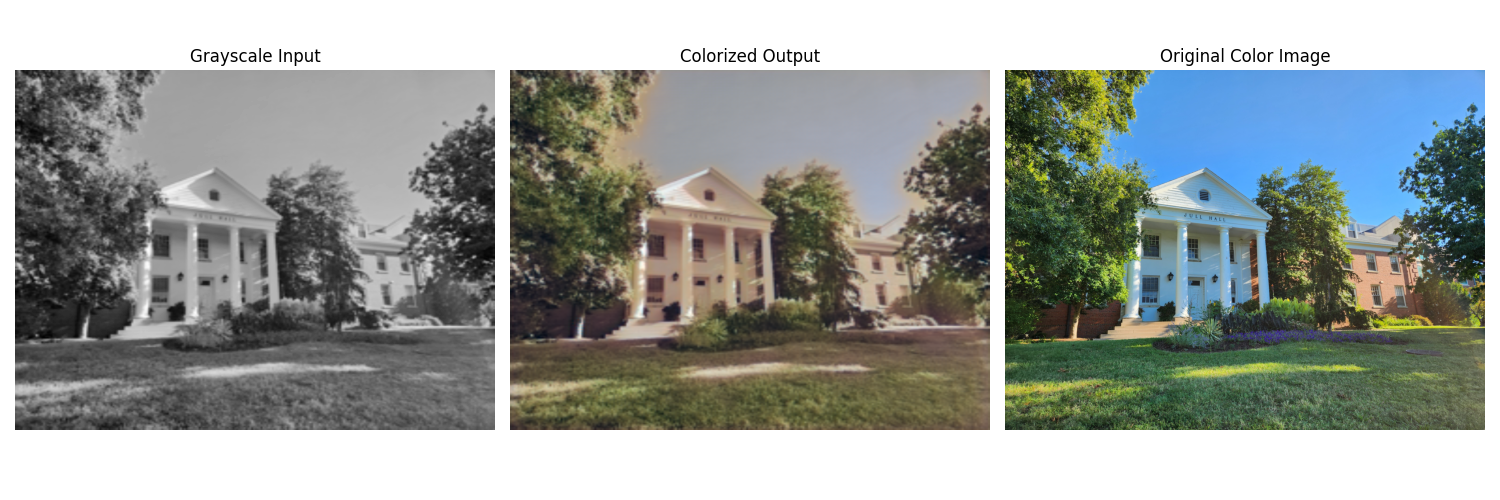
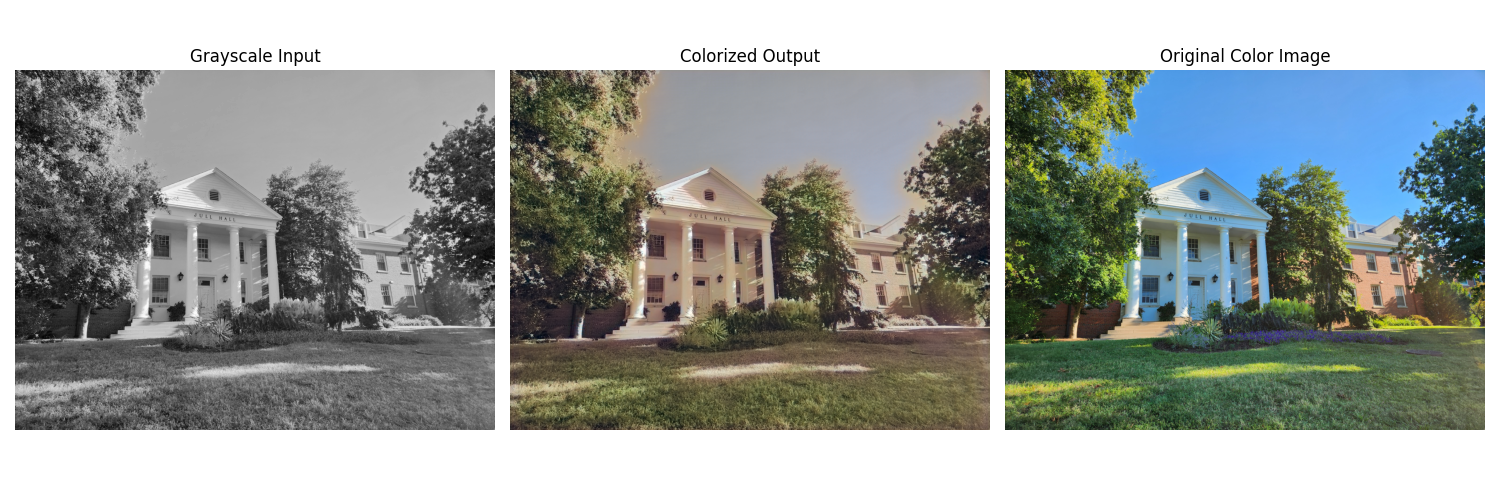
High Res Upgrade

diff --git a/colorization_testing.py b/colorization_testing.py
@@ -15,7 +15,7 @@ print("Using device:", device)
 # model_1.pt - Trained on 5K images from COCO, 5 epochs
 # model_2.pt - Trained on 1,668 images of people from Kaggle dataset, 5 epochs
 # model_3.pt - Trained on 4,300 images of landscapes from Kaggle dataset, 5 epochs
-MODEL_NUMBER = 3
+MODEL_NUMBER = 1
 scripted_model = torch.jit.load(f"model_{MODEL_NUMBER}.pt", map_location=device)
 scripted_model.eval()
 
@@ -44,36 +44,44 @@ def postprocess_output(L_orig, ab_pred, orig_size):
     ab = ab_pred[0].cpu().numpy().transpose(1, 2, 0) * 128.0
 
     # Saturation and color temp adjustments
-    ab *= 1.6
-    # ab[:, :, 1] -= 10
+    ab *= 2
+    ab[:, :, 1] -= 10
     # ab[:, :, 0] += 5
+    
+    # Resize ab channels to match original image resolution
+    h, w = orig_size[1], orig_size[0]
+    ab_upscaled = resize(ab, (h, w), mode='reflect', anti_aliasing=True)
 
-    lab = np.concatenate((L_orig[:, :, np.newaxis].astype("float32"), ab), axis=2)
+    # Combine high-res L channel and upscaled ab
+    lab = np.concatenate((L_orig[:, :, np.newaxis].astype("float32"), ab_upscaled), axis=2)
+
+    # Convert LAB to RGB
     rgb = color.lab2rgb(lab)
     rgb_clipped = np.clip(rgb, 0, 1)
 
-    # Resize back to original image size (width, height)
-    h, w = orig_size[1], orig_size[0]
-    rgb_upscaled = resize(rgb_clipped, (h, w), mode='reflect', anti_aliasing=True)
-
-    return rgb_upscaled
+    return rgb_clipped
 
 # ======= Run Inference and Display =======
 def colorize_image(img_path, save=False, save_path=None):
     L_tensor, L_orig, orig_size = preprocess_grayscale_image(img_path)
     with torch.no_grad():
         ab_pred = scripted_model(L_tensor)
-    rgb_result = postprocess_output(L_orig, ab_pred, orig_size)
+    
+    # Use original grayscale image for comparision and maintaining resolution detail
+    img = Image.open(img_path).convert('RGB')
+    img_np = np.array(img) / 255.0
+    lab = color.rgb2lab(img_np).astype("float32")
+    L = lab[:, :, 0]
+    
+    rgb_result = postprocess_output(L, ab_pred, orig_size)
 
-    # Resize grayscale L_orig to original size for comparision
-    L_resized = resize(L_orig, (orig_size[1], orig_size[0]), mode='reflect', anti_aliasing=True)
-
+    
 
     # Plot the grayscale, colorized, and original images
     plt.figure(figsize=(15, 5))  # Wider to fit three images
     plt.subplot(1, 3, 1)
     plt.title("Grayscale Input")
-    plt.imshow(L_resized, cmap='gray')
+    plt.imshow(L, cmap='gray')
     plt.axis('off')
 
     plt.subplot(1, 3, 2)
@@ -95,7 +103,7 @@ def colorize_image(img_path, save=False, save_path=None):
 
 # ======= Test Images Directory =======
 # Test_Images of Landscapes and Whatnot, Human_Test_Images of human subjects from stock photos
-test_images_dir = "Landscape_Test_Images"
+test_images_dir = "Test_Images"
 
 # Get all image file paths in the directory
 test_images = [os.path.join(test_images_dir, fname)
